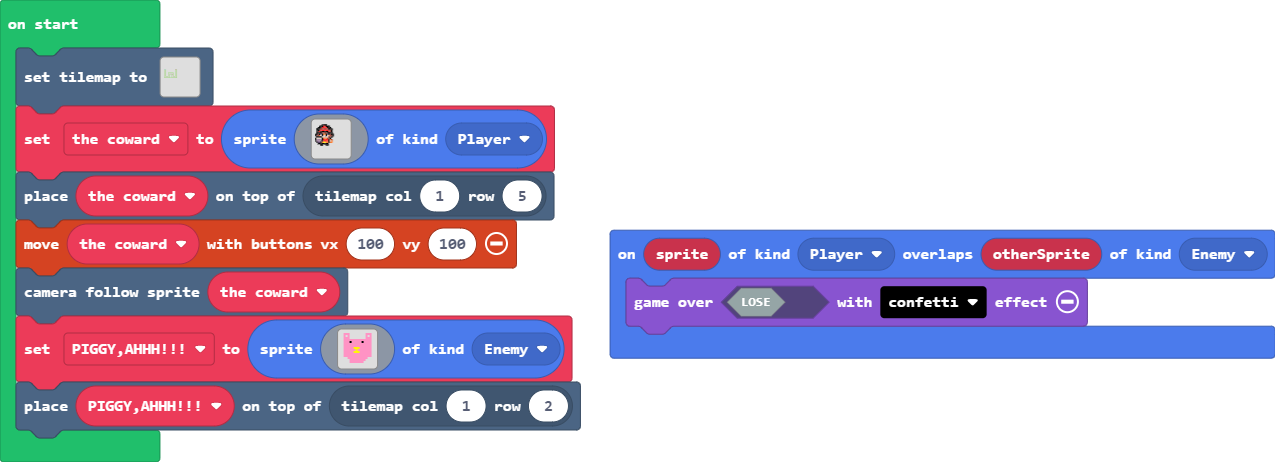
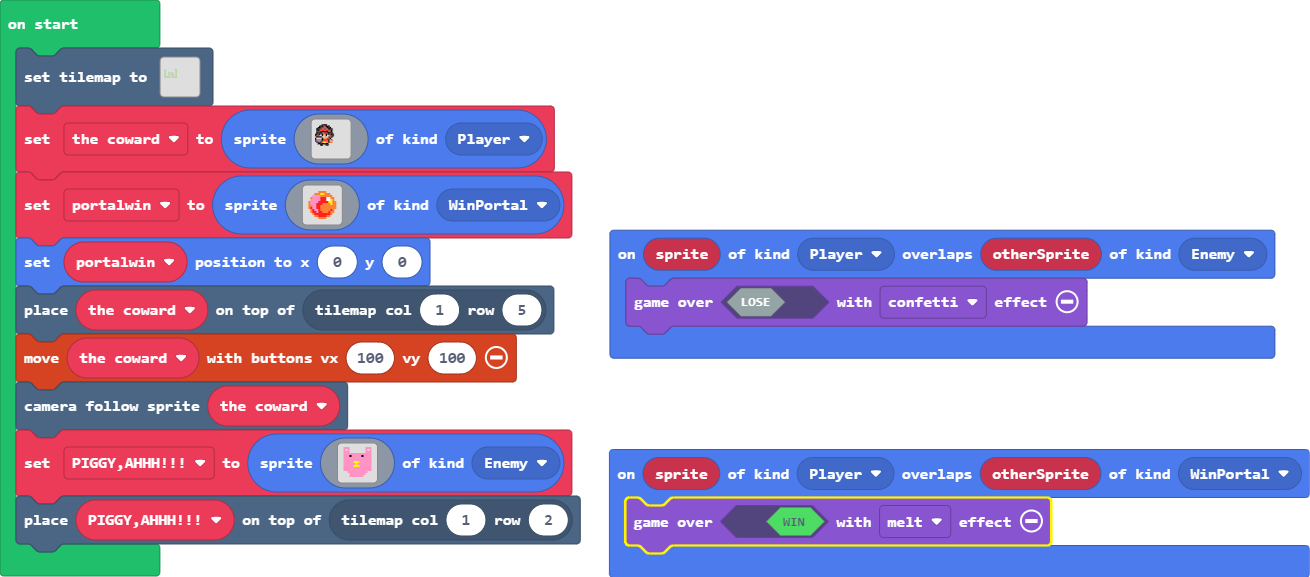
Update main.blocks, main.ts

diff --git a/main.ts b/main.ts
@@ -1,3 +1,9 @@
+namespace SpriteKind {
+    export const WinPortal = SpriteKind.create()
+}
+sprites.onOverlap(SpriteKind.Player, SpriteKind.WinPortal, function (sprite, otherSprite) {
+    game.over(true, effects.melt)
+})
 sprites.onOverlap(SpriteKind.Player, SpriteKind.Enemy, function (sprite, otherSprite) {
     game.over(false, effects.confetti)
 })
@@ -61,6 +67,25 @@ let the_coward = sprites.create(img`
     . . . . . . . . . . . . . . . . . . . . . . . . 
     . . . . . . . . . . . . . . . . . . . . . . . . 
     `, SpriteKind.Player)
+let portalwin = sprites.create(img`
+    . . . . . . . . . . . . . . . . 
+    . . . . . . 4 4 4 4 . . . . . . 
+    . . . . 4 4 4 5 5 4 4 4 . . . . 
+    . . . 3 3 3 3 4 4 4 4 4 4 . . . 
+    . . 4 3 3 3 3 2 2 2 1 1 4 4 . . 
+    . . 3 3 3 3 3 2 2 2 1 1 5 4 . . 
+    . 4 3 3 3 3 2 2 2 2 2 5 5 4 4 . 
+    . 4 3 3 3 2 2 2 4 4 4 4 5 4 4 . 
+    . 4 4 3 3 2 2 4 4 4 4 4 4 4 4 . 
+    . 4 2 3 3 2 2 4 4 4 4 4 4 4 4 . 
+    . . 4 2 3 3 2 4 4 4 4 4 2 4 . . 
+    . . 4 2 2 3 2 2 4 4 4 2 4 4 . . 
+    . . . 4 2 2 2 2 2 2 2 2 4 . . . 
+    . . . . 4 4 2 2 2 2 4 4 . . . . 
+    . . . . . . 4 4 4 4 . . . . . . 
+    . . . . . . . . . . . . . . . . 
+    `, SpriteKind.WinPortal)
+portalwin.setPosition(0, 0)
 tiles.placeOnTile(the_coward, tiles.getTileLocation(1, 5))
 controller.moveSprite(the_coward, 100, 100)
 scene.cameraFollowSprite(the_coward)
